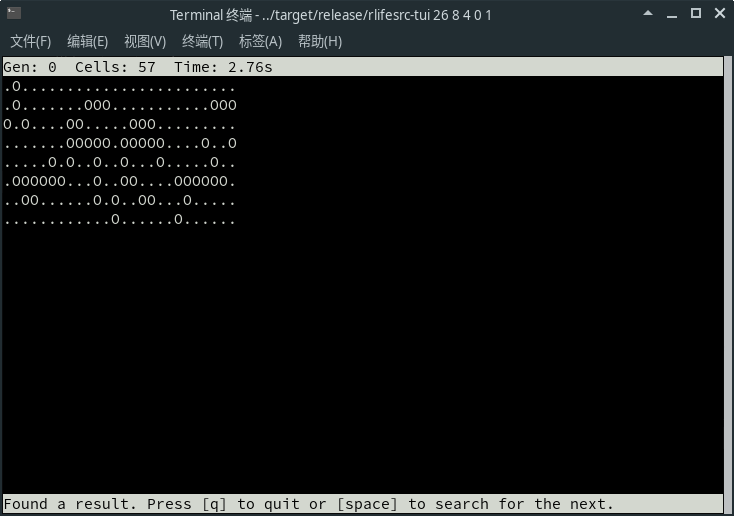
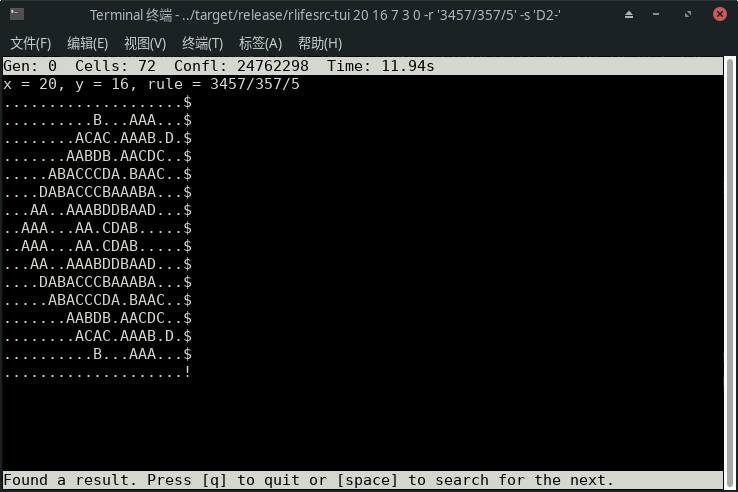
:pencil: 小修改，更新文档

diff --git a/lib/src/rules/life/gen.rs b/lib/src/rules/life/gen.rs
@@ -50,7 +50,7 @@ impl LifeGen {
     }
 
     /// Converts to the corresponding non-Generations rule.
-    pub fn to_non_gen(self) -> Life {
+    pub fn non_gen(self) -> Life {
         Life {
             b0: self.b0,
             impl_table: self.impl_table,
@@ -161,11 +161,7 @@ impl Rule for LifeGen {
             Some(State(i)) => {
                 assert!(i >= 2);
                 if let Some(State(j)) = desc.succ_state {
-                    if j == (i + 1) % gen {
-                        return true;
-                    } else {
-                        return false;
-                    }
+                    return j == (i + 1) % gen;
                 } else {
                     let succ = cell.succ.unwrap();
                     return world.set_cell(succ, State((i + 1) % gen), Reason::Deduce);

diff --git a/lib/src/rules/ntlife/gen.rs b/lib/src/rules/ntlife/gen.rs
@@ -50,7 +50,7 @@ impl NtLifeGen {
     }
 
     /// Converts to the corresponding non-Generations rule.
-    pub fn to_non_gen(self) -> NtLife {
+    pub fn non_gen(self) -> NtLife {
         NtLife {
             b0: self.b0,
             impl_table: self.impl_table,
@@ -156,11 +156,7 @@ impl Rule for NtLifeGen {
             }
             Some(State(i)) => {
                 if let Some(State(j)) = desc.succ_state {
-                    if j == (i + 1) % gen {
-                        return true;
-                    } else {
-                        return false;
-                    }
+                    return j == (i + 1) % gen;
                 } else {
                     let succ = cell.succ.unwrap();
                     return world.set_cell(succ, State((i + 1) % gen), Reason::Deduce);

diff --git a/lib/src/save.rs b/lib/src/save.rs
@@ -101,7 +101,7 @@ impl WorldSer {
                 let world = self.world_with_rule(rule)?;
                 Ok(Box::new(world))
             } else {
-                let rule = rule.to_non_gen();
+                let rule = rule.non_gen();
                 let world = self.world_with_rule(rule)?;
                 Ok(Box::new(world))
             }
@@ -111,7 +111,7 @@ impl WorldSer {
                 let world = self.world_with_rule(rule)?;
                 Ok(Box::new(world))
             } else {
-                let rule = rule.to_non_gen();
+                let rule = rule.non_gen();
                 let world = self.world_with_rule(rule)?;
                 Ok(Box::new(world))
             }

diff --git a/lib/src/search.rs b/lib/src/search.rs
@@ -145,10 +145,9 @@ impl<'a, R: Rule> World<'a, R> {
                         if self.set_cell(cell, state, Reason::Deduce) {
                             return true;
                         }
-                    } else {
-                        if self.set_cell(cell, state, Reason::TryAnother(i, self.rule.gen() - 2)) {
-                            return true;
-                        }
+                    } else if self.set_cell(cell, state, Reason::TryAnother(i, self.rule.gen() - 2))
+                    {
+                        return true;
                     }
                 }
                 Reason::TryAnother(i, n) => {

diff --git a/lib/src/config.rs b/lib/src/config.rs
@@ -474,7 +474,7 @@ impl Config {
             if rule.gen() > 2 {
                 Ok(Box::new(World::new(&self, rule)))
             } else {
-                let rule = rule.to_non_gen();
+                let rule = rule.non_gen();
                 Ok(Box::new(World::new(&self, rule)))
             }
         } else {
@@ -482,7 +482,7 @@ impl Config {
             if rule.gen() > 2 {
                 Ok(Box::new(World::new(&self, rule)))
             } else {
-                let rule = rule.to_non_gen();
+                let rule = rule.non_gen();
                 Ok(Box::new(World::new(&self, rule)))
             }
         }

diff --git a/lib/src/world.rs b/lib/src/world.rs
@@ -467,8 +467,11 @@ impl<'a, R: Rule> World<'a, R> {
 
     /// Displays the whole world in some generation.
     ///
+    /// Uses a mix of [Plaintext](https://www.conwaylife.com/wiki/Plaintext) and
+    /// [RLE](https://www.conwaylife.com/wiki/Rle) format.
+    ///
     /// * **Dead** cells are represented by `.`;
-    /// * **Living** cells are represented by `O`;
+    /// * **Living** cells are represented by `A`;
     /// * **Unknown** cells are represented by `?`.
     pub(crate) fn display_gen(&self, t: isize) -> String {
         let mut str = String::new();

diff --git a/lib/tests/test.rs b/lib/tests/test.rs
@@ -45,11 +45,12 @@ fn p3_spaceship() -> Result<(), Box<dyn Error>> {
     assert_eq!(
         search.display_gen(0),
         String::from(
-            "........O.......\n\
-             .OO.OOO.OOO.....\n\
-             .OO....O..OO.OO.\n\
-             O..O.OO...O..OO.\n\
-             ............O..O\n"
+            "x = 16, y = 5, rule = B3/S23\n\
+             ........A.......$\n\
+             .AA.AAA.AAA.....$\n\
+             .AA....A..AA.AA.$\n\
+             A..A.AA...A..AA.$\n\
+             ............A..A!\n"
         )
     );
     Ok(())

diff --git a/tui/README.md b/tui/README.md
@@ -4,7 +4,7 @@
 
 由于是从一种没学过的语言（C）抄到一种没用过的语言（Rust），写得非常糟糕，和 WinLifeSearch 相比缺少很多功能，而且速度要慢很多，但支持更多规则。
 
-支持 [Life-like](http://conwaylife.com/wiki/Totalistic_Life-like_cellular_automaton) 和 [non-totalistic](https://www.conwaylife.com/wiki/Non-isotropic_Life-like_cellular_automaton) 的规则，但后者比前者要略慢一些。也支持[六边形](https://www.conwaylife.com/wiki/Hexagonal_neighbourhood)以及[von Neumann 邻域](https://www.conwaylife.com/wiki/Von_Neumann_neighbourhood)的规则，但目前是通过转化成 non-totalistic 规则来实现的，速度较慢。
+支持 [Life-like](https://conwaylife.com/wiki/Totalistic_Life-like_cellular_automaton) 和 [non-totalistic](https://www.conwaylife.com/wiki/Non-isotropic_Life-like_cellular_automaton) 的规则，但后者比前者要略慢一些。还支持 [Generations](https://www.conwaylife.com/wiki/Generations) 规则，此功能是实验性的，可能有 bug。也支持[六边形](https://www.conwaylife.com/wiki/Hexagonal_neighbourhood)以及[von Neumann 邻域](https://www.conwaylife.com/wiki/Von_Neumann_neighbourhood)的规则，但目前是通过转化成 non-totalistic 规则来实现的，速度较慢。
 
 这里是 rlifesrc 的命令行界面和文本界面。网页版的说明见[`web/`](../web/README.md) 目录中的 `README.md`。
 
@@ -150,25 +150,34 @@ ARGS:
 
 命令行界面是最简单的界面，功能只有输入命令，输出结果，不会显示搜索过程。
 
-结果以 [Plaintext](http://conwaylife.com/wiki/Plaintext) 格式输出，用 `.` 表示死细胞，`O` 表示活细胞。
+结果的输出综合了 [Plaintext](https://www.conwaylife.com/wiki/Plaintext) 和 [RLE](https://www.conwaylife.com/wiki/Rle)两种格式，用 `.` 表示死细胞，`A` 表示活细胞，`B` 及以后的字母表示正在死亡的细胞。目前无法正常显示大于 27 种状态的 Generations 规则。
 
 比如说，输入
 
 ```bash
-./target/release/rlifesrc-tui 26 8 4 0 1 -c a --no-tui
+./target/release/rlifesrc-tui 20 16 7 3 0 -r '3457/357/5' -s 'D2-' --no-tui
 ```
 
 会显示以下结果：
 
 ```plaintext
-.O........................
-.O.......OOO...........OOO
-O.O....OO.....OOO.........
-.......OOOOO.OOOOO....O..O
-.....O.O..O..O...O.....O..
-.OOOOOO...O..OO....OOOOOO.
-..OO......O.O..OO...O.....
-............O......O......
+x = 20, y = 16, rule = 3457/357/5
+....................$
+..........B...AAA...$
+........ACAC.AAAB.D.$
+.......AABDB.AACDC..$
+.....ABACCCDA.BAAC..$
+....DABACCCBAAABA...$
+...AA..AAABDDBAAD...$
+..AAA...AA.CDAB.....$
+..AAA...AA.CDAB.....$
+...AA..AAABDDBAAD...$
+....DABACCCBAAABA...$
+.....ABACCCDA.BAAC..$
+.......AABDB.AACDC..$
+........ACAC.AAAB.D.$
+..........B...AAA...$
+....................!
 ```
 
 加上命令行选项 `--all` 会一个一个地输出所有的结果。
@@ -177,11 +186,11 @@ O.O....OO.....OOO.........
 
 文本界面也十分简陋，但可以显示搜索过程和搜索所用的时间。
 
-刚进入文本界面的时候，大概是这个样子（以 `./target/release/rlifesrc-tui 26 8 4 0 1 -c a` 为例）：
+刚进入文本界面的时候，大概是这个样子（以 `./target/release/rlifesrc-tui 20 16 7 3 0 -r '3457/357/5' -s 'D2-'` 为例）：
 
 ![](screenshots/Screenshot_0.png)
 
-其中 `?` 表示未知的细胞。`Cells` 表示第 0 代中已知的活细胞数。
+其中 `?` 表示未知的细胞。`Cells` 表示当前代中已知的活细胞数。`Confl` 表示搜索中经历的总冲突数，可以理解为搜索的步数。
 
 然后按空格键或回车键开始/暂停搜索，按 q 键退出，按左右方向键显示图样的上一代/下一代。注意此用法和原版的 lifesrc 并不一样。
 

diff --git a/lib/README.md b/lib/README.md
@@ -6,7 +6,7 @@
 
 由于是从一种没学过的语言（C）抄到一种没用过的语言（Rust），写得非常糟糕，和 WinLifeSearch 相比缺少很多功能，而且速度要慢很多，但支持更多规则。
 
-支持 [Life-like](http://conwaylife.com/wiki/Totalistic_Life-like_cellular_automaton) 和 [non-totalistic](https://www.conwaylife.com/wiki/Non-isotropic_Life-like_cellular_automaton) 的规则，但后者比前者要略慢一些。也支持[六边形](https://www.conwaylife.com/wiki/Hexagonal_neighbourhood)以及[von Neumann 邻域](https://www.conwaylife.com/wiki/Von_Neumann_neighbourhood)的规则，但目前是通过转化成 non-totalistic 规则来实现的，速度较慢。
+支持 [Life-like](https://conwaylife.com/wiki/Totalistic_Life-like_cellular_automaton) 和 [non-totalistic](https://www.conwaylife.com/wiki/Non-isotropic_Life-like_cellular_automaton) 的规则，但后者比前者要略慢一些。还支持 [Generations](https://www.conwaylife.com/wiki/Generations) 规则，此功能是实验性的，可能有 bug。也支持[六边形](https://www.conwaylife.com/wiki/Hexagonal_neighbourhood)以及[von Neumann 邻域](https://www.conwaylife.com/wiki/Von_Neumann_neighbourhood)的规则，但目前是通过转化成 non-totalistic 规则来实现的，速度较慢。
 
 这里是 rlifesrc 的库。另有一个文本界面的命令行工具，和一个编译成 wasm 的网页版，请分别见 [`tui/`](../tui/README.md) 和  [`web/`](../web/README.md) 两个目录中的 `README.md`。
 
@@ -34,9 +34,10 @@ if let Status::Found = search.search(None) {
 搜索结果：
 
 ```plaintext
-........O.......
-.OO.OOO.OOO.....
-.OO....O..OO.OO.
-O..O.OO...O..OO.
-............O..O
+x = 16, y = 5, rule = B3/S23
+........A.......$
+.AA.AAA.AAA.....$
+.AA....A..AA.AA.$
+A..A.AA...A..AA.$
+............A..A!
 ```

diff --git a/lib/README_en.md b/lib/README_en.md
@@ -6,7 +6,7 @@ __Rust Life Search__, or __rlifesrc__, is a Game of Life pattern searcher writte
 
 The program is based on David Bell's [lifesrc](https://github.com/DavidKinder/Xlife/tree/master/Xlife35/source/lifesearch) and Jason Summers's [WinLifeSearch](https://github.com/jsummers/winlifesearch/), using [an algorithm invented by Dean Hickerson](https://github.com/DavidKinder/Xlife/blob/master/Xlife35/source/lifesearch/ORIGIN).
 
-Compared to WinLifeSearch, rlifesrc is still slower, and lacks many important features. But it supports non-totalistic Life-like rules.
+Compared to WinLifeSearch, rlifesrc is still slower, and lacks many important features. But it supports non-totalistic Life-like and Generations rules. Supports for Generations rules are experimental.
 
 This is the library for rlifesrc. There is also a [command-line tool with a TUI](https://github.com/AlephAlpha/rlifesrc/tree/master/tui) and a [web app complied to WASM](https://github.com/AlephAlpha/rlifesrc/tree/master/web).
 
@@ -34,9 +34,10 @@ if let Status::Found = search.search(None) {
 Search result:
 
 ```plaintext
-........O.......
-.OO.OOO.OOO.....
-.OO....O..OO.OO.
-O..O.OO...O..OO.
-............O..O
+x = 16, y = 5, rule = B3/S23
+........A.......$
+.AA.AAA.AAA.....$
+.AA....A..AA.AA.$
+A..A.AA...A..AA.$
+............A..A!
 ```

diff --git a/web/README.md b/web/README.md
@@ -53,9 +53,9 @@ cp static/* some_folder/
 
 搜到结果后再点 “Start” 会在当前结果的基础上搜下一个结果。如果要从头开始搜索，可以点击 “Set World” 来重置世界。
 
-搜索的过程与结果以 [Plaintext](http://conwaylife.com/wiki/Plaintext) 格式显示，用 `.` 表示死细胞，`O` 表示活细胞，`?` 表示未知的细胞。
+搜索的过程与结果综合了 [Plaintext](https://www.conwaylife.com/wiki/Plaintext) 和 [RLE](https://www.conwaylife.com/wiki/Rle)两种格式，用 `.` 表示死细胞，`A` 表示活细胞，`B` 及以后的字母表示正在死亡的细胞。目前无法正常显示大于 27 种状态的 Generations 规则。
 
-点击左上角的 “Generation” 右边的加减号可以切换显示的代数。注意 “Cell count” 指的是第 __0__ 代的活细胞个数。
+点击左上角的 “Generation” 右边的加减号可以切换显示的代数。“Cell count” 指的是当前代的活细胞个数。
 
 以下是各种参数的具体说明：
 
